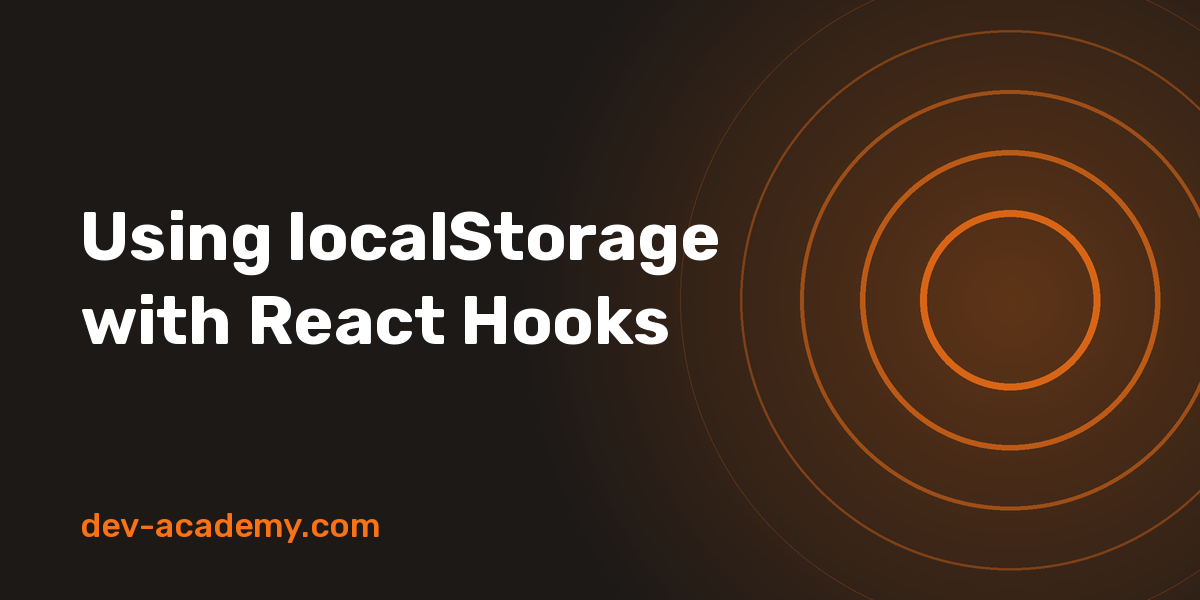
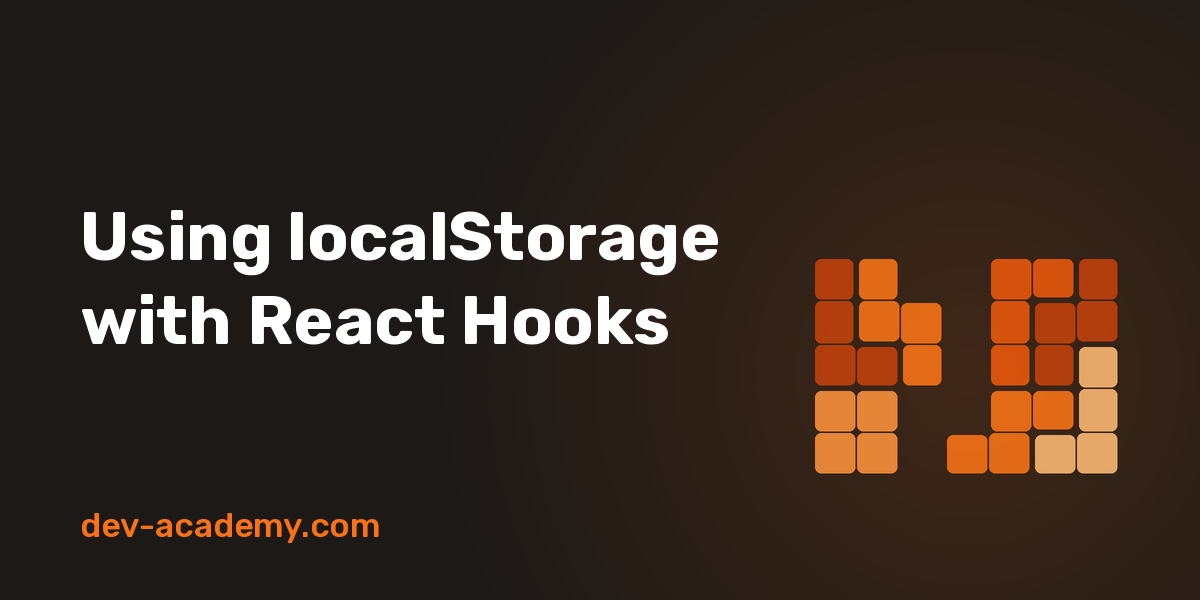
talks: three Slides decks and the web performance workshop; block-style covers
- Talks: "El club de las 9 de la mañana", the two parts of "Del Lenguaje de
  Programación al Lenguaje Natural…" (links to slides.com, covers cropped to
  16:9) and "Every Millisecond Matters" (an internal workshop; the cover is a
  generated card, not the original poster).
- docs/make-card.py: new --style option (rings, blocks, grid, stripes, auto).
  "blocks" stacks real tetrominoes, placed by a seeded player from the title.
- The six generated dev-academy cards are regenerated with the blocks style.

diff --git a/docs/make-card.py b/docs/make-card.py
@@ -5,10 +5,12 @@
     python3 ../docs/make-card.py "My Article Title" --source example.com --out assets/img/posts/my-article-title.png
 
 Needs Pillow (`pip install pillow`). The Rubik font is downloaded once to docs/.cache/. The design is the
-same as docs/card-template.svg. Emoji are not in the font, so leave them out of the title.
+same as docs/card-template.svg. --style picks another decoration (rings, blocks, grid, stripes) or "auto". Emoji are not in the font, so leave them out of the title.
 """
 import argparse
+import random
 import re
+import zlib
 import urllib.request
 from pathlib import Path
 
@@ -18,6 +20,8 @@ FONT_URL = "https://raw.githubusercontent.com/googlefonts/rubik/main/fonts/varia
 FONT_PATH = Path(__file__).parent / ".cache" / "Rubik-var.ttf"
 ORANGE = (249, 115, 22)  # primary colour of the "fire" scheme
 BACKGROUND = (28, 25, 23)
+# the shades of the home page Tetris wells (primary 300-700 of the "fire" scheme)
+SHADES = {300: (253, 186, 116), 400: (251, 146, 60), 500: (249, 115, 22), 600: (234, 88, 12), 700: (194, 65, 12)}
 SCALE = 2  # draw at 2x and downsample for smooth edges
 
 
@@ -42,26 +46,172 @@ def wrap(draw, text, fnt, max_width):
     return lines + [current]
 
 
-def make_card(title, source, width, height):
-    k = SCALE
-    cx, cy = width - 190, height // 2  # ring centre
-    img = Image.new("RGBA", (width * k, height * k), BACKGROUND + (255,))
-
-    # glow: radial_gradient is 0 at the centre and ~180 at the middle of each edge, so map 0..180 -> 30%..0
-    size = 1000
+def glow(img, k, cx, cy, size=1000, strength=0.30):
+    """Orange radial glow centred on (cx, cy): `strength` at the centre, fading to nothing."""
     g = Image.radial_gradient("L").resize((size * k, size * k))
-    glow = Image.new("RGBA", g.size, ORANGE + (0,))
-    glow.putalpha(g.point(lambda v: max(0, int((180 - v) / 180 * 255 * 0.30))))
-    img.alpha_composite(glow, (int((cx - size / 2) * k), int((cy - size / 2) * k)))
+    layer = Image.new("RGBA", g.size, ORANGE + (0,))
+    # radial_gradient is 0 at the centre and ~180 at the middle of each edge
+    layer.putalpha(g.point(lambda v: max(0, int((180 - v) / 180 * 255 * strength))))
+    img.alpha_composite(layer, (int((cx - size / 2) * k), int((cy - size / 2) * k)))
 
-    # rings: radius 90..330, thinner and fainter outwards
-    overlay = Image.new("RGBA", img.size, (0, 0, 0, 0))
-    draw = ImageDraw.Draw(overlay)
+
+def overlay_for(img):
+    layer = Image.new("RGBA", img.size, (0, 0, 0, 0))
+    return layer, ImageDraw.Draw(layer)
+
+
+# --- Styles. Each draws only the background decoration; the title and source are drawn afterwards. ---------
+
+def style_rings(img, k, w, h, seed):
+    """Glow and thinning rings on the right (the original look)."""
+    cx, cy = w - 190, h // 2
+    glow(img, k, cx, cy)
+    layer, draw = overlay_for(img)
     for i, r in enumerate((90, 150, 210, 270, 330)):
         alpha = int(255 * (0.8 - i * 0.15))
         stroke = max(1, int((7 - i * 1.4) * k))
         draw.ellipse([(cx - r) * k, (cy - r) * k, (cx + r) * k, (cy + r) * k], outline=ORANGE + (alpha,), width=stroke)
-    img.alpha_composite(overlay)
+    img.alpha_composite(layer)
+
+
+TETROMINOES = {  # the seven pieces, as (column, row) cells in their spawn rotation
+    "I": [(0, 0), (1, 0), (2, 0), (3, 0)],
+    "O": [(0, 0), (1, 0), (0, 1), (1, 1)],
+    "T": [(0, 0), (1, 0), (2, 0), (1, 1)],
+    "S": [(1, 0), (2, 0), (0, 1), (1, 1)],
+    "Z": [(0, 0), (1, 0), (1, 1), (2, 1)],
+    "J": [(0, 0), (0, 1), (1, 1), (2, 1)],
+    "L": [(2, 0), (0, 1), (1, 1), (2, 1)],
+}
+
+
+def rotations(cells):
+    """The distinct rotations of a piece, each moved to the top left corner."""
+    seen, out = set(), []
+    for _ in range(4):
+        cells = [(-r, c) for c, r in cells]  # rotate 90 degrees
+        min_c, min_r = min(c for c, _ in cells), min(r for _, r in cells)
+        cells = sorted((c - min_c, r - min_r) for c, r in cells)
+        if tuple(cells) not in seen:
+            seen.add(tuple(cells))
+            out.append(cells)
+    return out
+
+
+def play_tetris(rnd, cols, rows, pieces, max_height):
+    """Plays up to `pieces` real tetrominoes into a well, picking each landing spot with a little noise on top of
+    "few holes, low and flat" (the same idea as the home page player). Spots that would complete a line or rise
+    above `max_height` are skipped, so the stack stays a low, readable pile. Returns grid[row][col] = piece id
+    (or None) and the shade of each piece id."""
+    grid = [[None] * cols for _ in range(rows)]
+    shades = {}
+
+    def fits(cells, x, y):
+        return all(0 <= x + c < cols and y + r < rows and (y + r < 0 or grid[y + r][x + c] is None) for c, r in cells)
+
+    def evaluate(g):
+        heights = [next((rows - r for r in range(rows) if g[r][c] is not None), 0) for c in range(cols)]
+        holes = sum(1 for c in range(cols) for r in range(rows - heights[c], rows) if g[r][c] is None)
+        bump = sum(abs(heights[c] - heights[c - 1]) for c in range(1, cols))
+        return -0.5 * sum(heights) - 1.2 * holes - 0.25 * bump + rnd.random() * 1.2
+
+    for pid in range(pieces):
+        options = []
+        for cells in rotations(TETROMINOES[rnd.choice(list(TETROMINOES))]):
+            width = max(c for c, _ in cells) + 1
+            for x in range(cols - width + 1):
+                y = -4
+                if not fits(cells, x, y):
+                    continue
+                while fits(cells, x, y + 1):
+                    y += 1
+                if y < 0:
+                    continue
+                trial = [row[:] for row in grid]
+                for c, r in cells:
+                    trial[y + r][x + c] = pid
+                if any(all(v is not None for v in row) for row in trial) or rows - (y + min(r for _, r in cells)) > max_height:
+                    continue
+                options.append((evaluate(trial), cells, x, y))
+        if not options:
+            break
+        _, cells, x, y = max(options, key=lambda o: o[0])
+        for c, r in cells:
+            grid[y + r][x + c] = pid
+        # a shade different from every piece it touches, so the pieces read as separate shapes
+        touching = {grid[y + r + dr][x + c + dc]
+                    for c, r in cells for dr, dc in ((1, 0), (-1, 0), (0, 1), (0, -1))
+                    if 0 <= y + r + dr < rows and 0 <= x + c + dc < cols}
+        taken = {shades[t] for t in touching if t in shades}
+        shades[pid] = rnd.choice([s for s in SHADES if s not in taken] or list(SHADES))
+    return grid, shades
+
+
+def style_blocks(img, k, w, h, seed):
+    """Minimal: real tetrominoes stacked on the right, placed by a seeded player (so each title gets its own
+    stack), in the shades of the home page wells. No frame."""
+    rnd = random.Random(seed)
+    cell, cols, rows = 44, 7, 8
+    x0, y0 = w - 80 - cols * cell, (h - rows * cell) // 2  # 80 px margin: clear of the title (wraps at 700 px)
+    glow(img, k, x0 + cols * cell / 2, y0 + rows * cell * 0.7, size=1100, strength=0.16)
+    layer, draw = overlay_for(img)
+    grid, shades = play_tetris(rnd, cols, rows, rnd.randint(8, 11), max_height=5)
+    for r in range(rows):
+        for c in range(cols):
+            pid = grid[r][c]
+            if pid is None:
+                continue
+
+            # every block is its own rounded square; the four squares of a piece share one shade and sit closer to
+            # each other (1 px gap) than to other pieces (4 px), so each piece reads as a unit
+            def gap(dc, dr):
+                same = 0 <= r + dr < rows and 0 <= c + dc < cols and grid[r + dr][c + dc] == pid
+                return 1 if same else 3
+            px, py = x0 + c * cell, y0 + r * cell
+            draw.rounded_rectangle([(px + gap(-1, 0)) * k, (py + gap(0, -1)) * k, (px + cell - gap(1, 0)) * k,
+                                    (py + cell - gap(0, 1)) * k], radius=6 * k, fill=SHADES[shades[pid]] + (225,))
+    img.alpha_composite(layer)
+
+
+def style_grid(img, k, w, h, seed):
+    """Dotted grid, a warm glow from the bottom right, an orange tab above the title and a big thin ring."""
+    glow(img, k, w - 120, h + 20, size=1300, strength=0.34)
+    layer, draw = overlay_for(img)
+    step = 40
+    for gx in range(step // 2, w, step):
+        for gy in range(step // 2, h, step):
+            fade = min(1, 0.35 + gx / w)  # dots get stronger towards the right
+            r = 2 * k
+            draw.ellipse([gx * k - r, gy * k - r, gx * k + r, gy * k + r], fill=(255, 255, 255, int(46 * fade)))
+    draw.ellipse([(w - 120 - 300) * k, (h - 300 + 20) * k, (w - 120 + 300) * k, (h + 300 + 20) * k],
+                 outline=ORANGE + (150,), width=3 * k)
+    draw.rounded_rectangle([80 * k, 70 * k, 170 * k, 78 * k], radius=4 * k, fill=ORANGE + (255,))
+    img.alpha_composite(layer)
+
+
+def style_stripes(img, k, w, h, seed):
+    """Diagonal orange bands on the right that fade out towards the title."""
+    glow(img, k, w - 60, 40, size=1200, strength=0.28)
+    layer, draw = overlay_for(img)
+    run = int(h * 0.6)  # horizontal run of each band: keeps them clear of the title and the source line
+    for i in range(6):
+        offset = w - 30 - i * 66
+        width = max(8, 36 - i * 5)
+        alpha = int(255 * max(0.14, 0.85 - i * 0.13))
+        pts = [(offset, -10), (offset + width, -10), (offset + width - run - 10, h + 10), (offset - run - 10, h + 10)]
+        draw.polygon([(x * k, y * k) for x, y in pts], fill=ORANGE + (alpha,))
+    img.alpha_composite(layer)
+
+
+STYLES = {"rings": style_rings, "blocks": style_blocks, "grid": style_grid, "stripes": style_stripes}
+
+
+def make_card(title, source, width, height, style="rings"):
+    if style == "auto":  # the same title always gets the same style; different titles spread over all of them
+        style = list(STYLES)[zlib.crc32(title.encode()) % len(STYLES)]
+    k = SCALE
+    img = Image.new("RGBA", (width * k, height * k), BACKGROUND + (255,))
+    STYLES[style](img, k, width, height, zlib.crc32(title.encode()))
 
     img = img.resize((width, height), Image.LANCZOS).convert("RGB")
     draw = ImageDraw.Draw(img)
@@ -83,6 +233,8 @@ def main():
     p.add_argument("title")
     p.add_argument("--source", default="", help='small label under the title, e.g. "example.com"')
     p.add_argument("--out", required=True, help="output PNG path")
+    p.add_argument("--style", default="rings", choices=[*STYLES, "auto"],
+                   help="background decoration (default rings); auto picks one from the title so covers differ")
     p.add_argument("--size", default="1200x600", help="WIDTHxHEIGHT (default 1200x600, the 2:1 card ratio)")
     args = p.parse_args()
     if re.search(r"[\U0001F000-\U0001FAFF☀-➿]", args.title):
@@ -90,7 +242,7 @@ def main():
     w, h = (int(n) for n in args.size.lower().split("x"))
     out = Path(args.out)
     out.parent.mkdir(parents=True, exist_ok=True)
-    make_card(args.title, args.source, w, h).save(out, optimize=True)
+    make_card(args.title, args.source, w, h, args.style).save(out, optimize=True)
     print(f"wrote {out} ({w}x{h})")
 
 

diff --git a/blog/content/talks/del-lenguaje-natural-p1.es.md b/blog/content/talks/del-lenguaje-natural-p1.es.md
@@ -1,0 +1,11 @@
+---
+title: "P1: Del Lenguaje de Programación al Lenguaje Natural: Un Parche Obligatorio Rumbo a la 4ta Revolución Industrial"
+externalUrl: "https://slides.com/cr0wg4n/del-lenguaje-de-programacion-al-lenguaje-natural-un-parche-obligatorio-rumbo-a-la-4ta-revolucion-industrial-p1"
+featureimage: "img/talks/del-lenguaje-natural-p1.jpg"
+coverSource: "https://media.slid.es/thumbnails/74e86cdca17be486a3d2835252ba7139/thumb.jpg?1761367231"
+tags: ["ai"]
+date: "2025-10-25"
+summary: "Desde la llegada de los Modelos Largos de Lenguaje (LLMs) y la Inteligencia Artificial en general, el mundo ha estado dando grandes saltos. Evidentemente, no es el único factor, pero estamos avanzando hacia una cuarta revolución industrial, y más vale que, como estudiantes y profesionales, estemos preparados para afrontarla. Este taller tiene como objetivo explorar herramientas modernas que pueden automatizar parte de nuestros flujos de trabajo diarios, optimizando procesos y reduciendo el tiempo de ejecución. También abordaremos herramientas que, al integrarse a nuestras tareas cotidianas, actúan como asistentes o copilotos, mejorando la calidad de los resultados finales. Además, a lo largo del taller reflexionaremos sobre el uso de estas tecnologías, el papel de los LLMs y nuestra propia capacidad para escribir y expresarnos con claridad."
+---
+
+[slides.com](https://slides.com/cr0wg4n/del-lenguaje-de-programacion-al-lenguaje-natural-un-parche-obligatorio-rumbo-a-la-4ta-revolucion-industrial-p1)

diff --git a/blog/content/talks/del-lenguaje-natural-p2.es.md b/blog/content/talks/del-lenguaje-natural-p2.es.md
@@ -1,0 +1,11 @@
+---
+title: "P2: Del Lenguaje de Programación al Lenguaje Natural: Un Parche Obligatorio Rumbo a la 4ta Revolución Industrial"
+externalUrl: "https://slides.com/cr0wg4n/del-lenguaje-de-programacion-al-lenguaje-natural-un-parche-obligatorio-rumbo-a-la-4ta-revolucion-industrial-p2"
+featureimage: "img/talks/del-lenguaje-natural-p2.jpg"
+coverSource: "https://media.slid.es/thumbnails/9aff35bbd85d0c1bd31ac46e023196ac/thumb.jpg?1761520086"
+tags: ["ai"]
+date: "2025-10-26"
+summary: "Desde la llegada de los Modelos Largos de Lenguaje (LLMs) y la Inteligencia Artificial en general, el mundo ha estado dando grandes saltos. Evidentemente, no es el único factor, pero estamos avanzando hacia una cuarta revolución industrial, y más vale que, como estudiantes y profesionales, estemos preparados para afrontarla. Este taller tiene como objetivo explorar herramientas modernas que pueden automatizar parte de nuestros flujos de trabajo diarios, optimizando procesos y reduciendo el tiempo de ejecución. También abordaremos herramientas que, al integrarse a nuestras tareas cotidianas, actúan como asistentes o copilotos, mejorando la calidad de los resultados finales. Además, a lo largo del taller reflexionaremos sobre el uso de estas tecnologías, el papel de los LLMs y nuestra propia capacidad para escribir y expresarnos con claridad."
+---
+
+[slides.com](https://slides.com/cr0wg4n/del-lenguaje-de-programacion-al-lenguaje-natural-un-parche-obligatorio-rumbo-a-la-4ta-revolucion-industrial-p2)

diff --git a/blog/content/talks/del-lenguaje-natural-p1.en.md b/blog/content/talks/del-lenguaje-natural-p1.en.md
@@ -1,0 +1,11 @@
+---
+title: "P1: Del Lenguaje de Programación al Lenguaje Natural: Un Parche Obligatorio Rumbo a la 4ta Revolución Industrial"
+externalUrl: "https://slides.com/cr0wg4n/del-lenguaje-de-programacion-al-lenguaje-natural-un-parche-obligatorio-rumbo-a-la-4ta-revolucion-industrial-p1"
+featureimage: "img/talks/del-lenguaje-natural-p1.jpg"
+coverSource: "https://media.slid.es/thumbnails/74e86cdca17be486a3d2835252ba7139/thumb.jpg?1761367231"
+tags: ["ai"]
+date: "2025-10-25"
+summary: "Since the arrival of Large Language Models (LLMs) and Artificial Intelligence in general, the world has been taking big leaps. It is obviously not the only factor, but we are moving toward a fourth industrial revolution, and as students and professionals we had better be ready to face it. This workshop aims to explore modern tools that can automate part of our daily workflows, optimizing processes and cutting execution time. We will also cover tools that, once integrated into our everyday tasks, act as assistants or copilots and improve the quality of the final results. Throughout the workshop we will also reflect on how we use these technologies, on the role of LLMs, and on our own ability to write and express ourselves clearly."
+---
+
+[slides.com](https://slides.com/cr0wg4n/del-lenguaje-de-programacion-al-lenguaje-natural-un-parche-obligatorio-rumbo-a-la-4ta-revolucion-industrial-p1)

diff --git a/blog/content/talks/del-lenguaje-natural-p2.en.md b/blog/content/talks/del-lenguaje-natural-p2.en.md
@@ -1,0 +1,11 @@
+---
+title: "P2: Del Lenguaje de Programación al Lenguaje Natural: Un Parche Obligatorio Rumbo a la 4ta Revolución Industrial"
+externalUrl: "https://slides.com/cr0wg4n/del-lenguaje-de-programacion-al-lenguaje-natural-un-parche-obligatorio-rumbo-a-la-4ta-revolucion-industrial-p2"
+featureimage: "img/talks/del-lenguaje-natural-p2.jpg"
+coverSource: "https://media.slid.es/thumbnails/9aff35bbd85d0c1bd31ac46e023196ac/thumb.jpg?1761520086"
+tags: ["ai"]
+date: "2025-10-26"
+summary: "Since the arrival of Large Language Models (LLMs) and Artificial Intelligence in general, the world has been taking big leaps. It is obviously not the only factor, but we are moving toward a fourth industrial revolution, and as students and professionals we had better be ready to face it. This workshop aims to explore modern tools that can automate part of our daily workflows, optimizing processes and cutting execution time. We will also cover tools that, once integrated into our everyday tasks, act as assistants or copilots and improve the quality of the final results. Throughout the workshop we will also reflect on how we use these technologies, on the role of LLMs, and on our own ability to write and express ourselves clearly."
+---
+
+[slides.com](https://slides.com/cr0wg4n/del-lenguaje-de-programacion-al-lenguaje-natural-un-parche-obligatorio-rumbo-a-la-4ta-revolucion-industrial-p2)

diff --git a/blog/content/talks/every-millisecond-matters.es.md b/blog/content/talks/every-millisecond-matters.es.md
@@ -1,0 +1,22 @@
+---
+title: "Every Millisecond Matters"
+featureimage: "img/talks/every-millisecond-matters.png"
+tags: ["performance"]
+date: "2026-06-19"
+summary: "Taller interno de rendimiento web en la empresa donde trabajo, dado con Rayner V.: cómo mejorar la experiencia de usuario, el engagement y el rendimiento de las aplicaciones con estrategias modernas de optimización web."
+---
+
+Un **taller interno** para la empresa donde trabajo, dado junto a [Rayner V.](https://www.linkedin.com/in/rayner-villalba-95153591/): dos sesiones sobre rendimiento web.
+
+- **Fechas:** viernes 19 y viernes 26 de junio (2026)
+- **Hora:** de 4:00 PM a 5:30 PM
+
+## Resumen
+
+La idea del taller:
+
+> **La velocidad es parte del producto.**
+
+Cada milisegundo que tarda en responder una página afecta la experiencia de los usuarios, su permanencia e interacción, y el rendimiento de la aplicación. En las dos sesiones revisamos estrategias modernas de optimización web para mejorar los tres aspectos.
+
+Era material interno, así que aquí solo comparto esta visión general. Pronto escribiré más acerca de ello.

diff --git a/blog/content/talks/every-millisecond-matters.en.md b/blog/content/talks/every-millisecond-matters.en.md
@@ -1,0 +1,22 @@
+---
+title: "Every Millisecond Matters"
+featureimage: "img/talks/every-millisecond-matters.png"
+tags: ["performance"]
+date: "2026-06-19"
+summary: "Internal web performance workshop at the company where I work, given with Rayner V.: improving user experience, engagement and application performance with modern web optimization strategies."
+---
+
+An **internal workshop** for the company where I work, given alongside [Rayner V.](https://www.linkedin.com/in/rayner-villalba-95153591/): two sessions on web performance.
+
+- **Dates:** Friday, June 19 and Friday, June 26 (2026)
+- **Hour:** 4:00 PM to 5:30 PM
+
+## Summary
+
+The idea behind the workshop:
+
+> **Speed is part of the product.**
+
+Every millisecond a page takes to respond affects the users' experience, how long they stay and how much they engage, and the performance of the application. Over the two sessions we looked at modern web optimization strategies to improve all three aspects.
+
+It was internal material, so I only share this overview here. I will write more about it soon.

diff --git a/README.md b/README.md
@@ -69,6 +69,8 @@ Each page exists in two languages with the same name: `slug.en.md` and `slug.es.
   For an article without a usable cover, make a title card (needs Pillow; the editable design is
   `docs/card-template.svg`):
   `python3 ../docs/make-card.py "My article" --source medium.com --out assets/img/posts/my-article.png`
+  Four looks: `--style rings` (default), `blocks`, `grid`, `stripes`; `--style auto` picks one from the title so covers
+  do not all look alike.
 
 Where to change other things: colors and fonts in `assets/css/custom.css`; visual effects are switched on or off in `[effects]` of `blog/config/_default/params.toml` (how to add one: `blog/layouts/partials/effects/scripts.html`); theme settings in
 `config/_default/params.toml`; name, bio and links in `config/_default/languages.*.toml`; the link-preview image

diff --git a/blog/content/talks/el-club-de-las-9-de-la-manana.es.md b/blog/content/talks/el-club-de-las-9-de-la-manana.es.md
@@ -1,0 +1,11 @@
+---
+title: "El club de las 9 de la mañana"
+externalUrl: "https://slides.com/cr0wg4n/el-club-de-las-9-de-la-maana"
+featureimage: "img/talks/el-club-de-las-9-de-la-manana.jpg"
+coverSource: "https://media.slid.es/thumbnails/965b4e51466ae27b550998167cf979c3/thumb.jpg?1761195792"
+tags: []
+date: "2025-10-23"
+summary: "Diapositivas en slides.com."
+---
+
+[slides.com](https://slides.com/cr0wg4n/el-club-de-las-9-de-la-maana)

diff --git a/blog/content/talks/el-club-de-las-9-de-la-manana.en.md b/blog/content/talks/el-club-de-las-9-de-la-manana.en.md
@@ -1,0 +1,11 @@
+---
+title: "El club de las 9 de la mañana"
+externalUrl: "https://slides.com/cr0wg4n/el-club-de-las-9-de-la-maana"
+featureimage: "img/talks/el-club-de-las-9-de-la-manana.jpg"
+coverSource: "https://media.slid.es/thumbnails/965b4e51466ae27b550998167cf979c3/thumb.jpg?1761195792"
+tags: []
+date: "2025-10-23"
+summary: "Slides on slides.com."
+---
+
+[slides.com](https://slides.com/cr0wg4n/el-club-de-las-9-de-la-maana)
